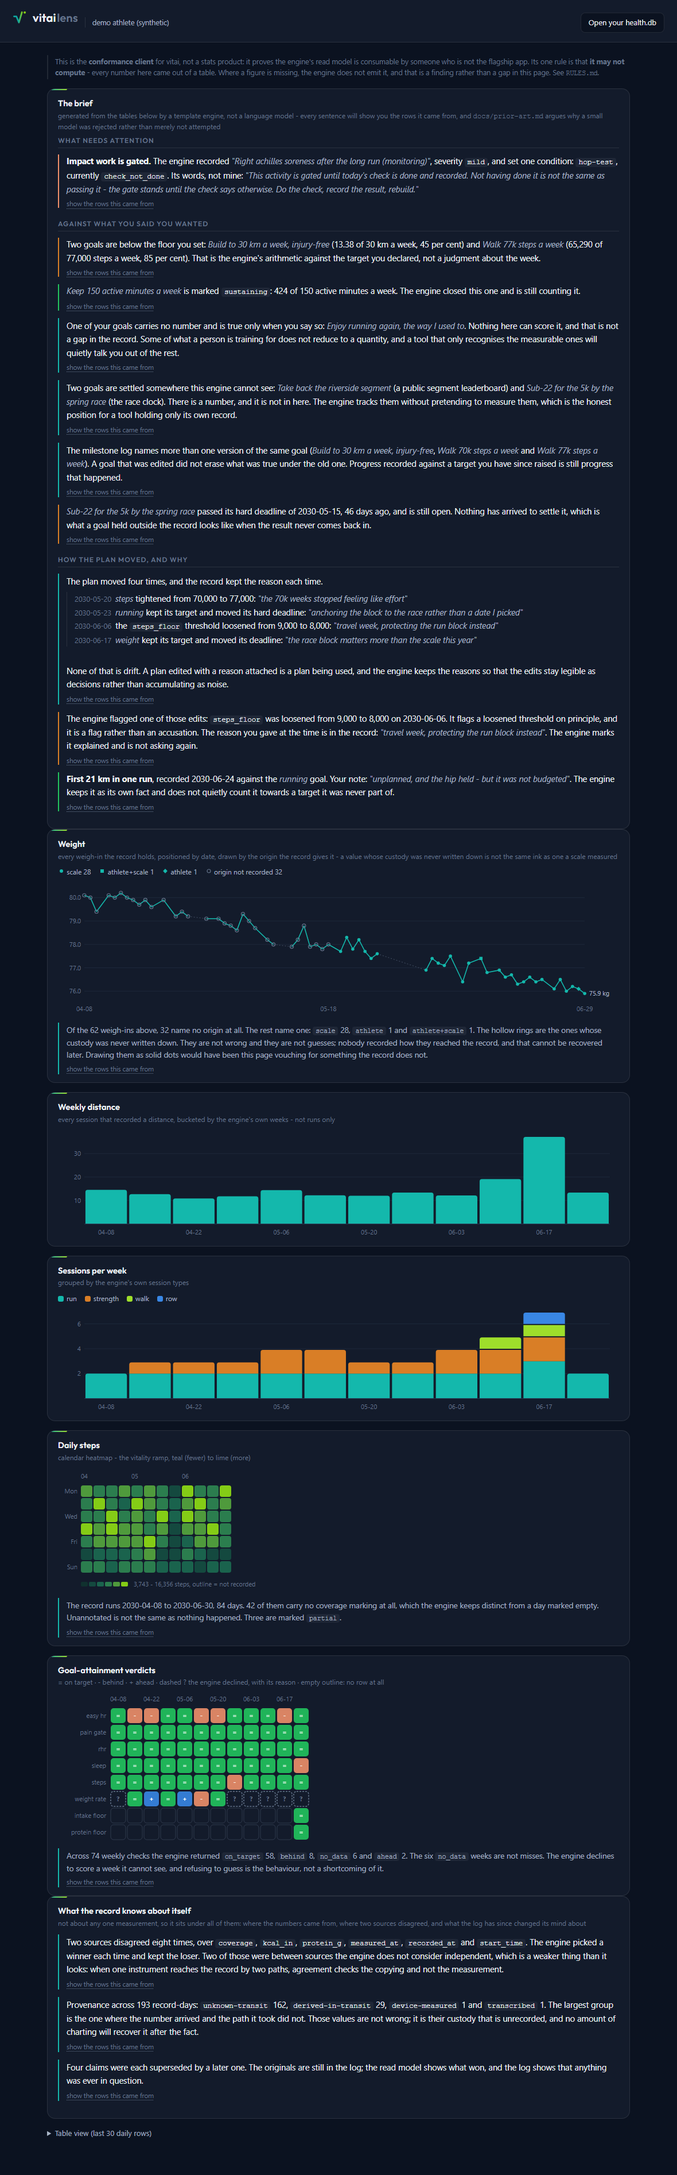
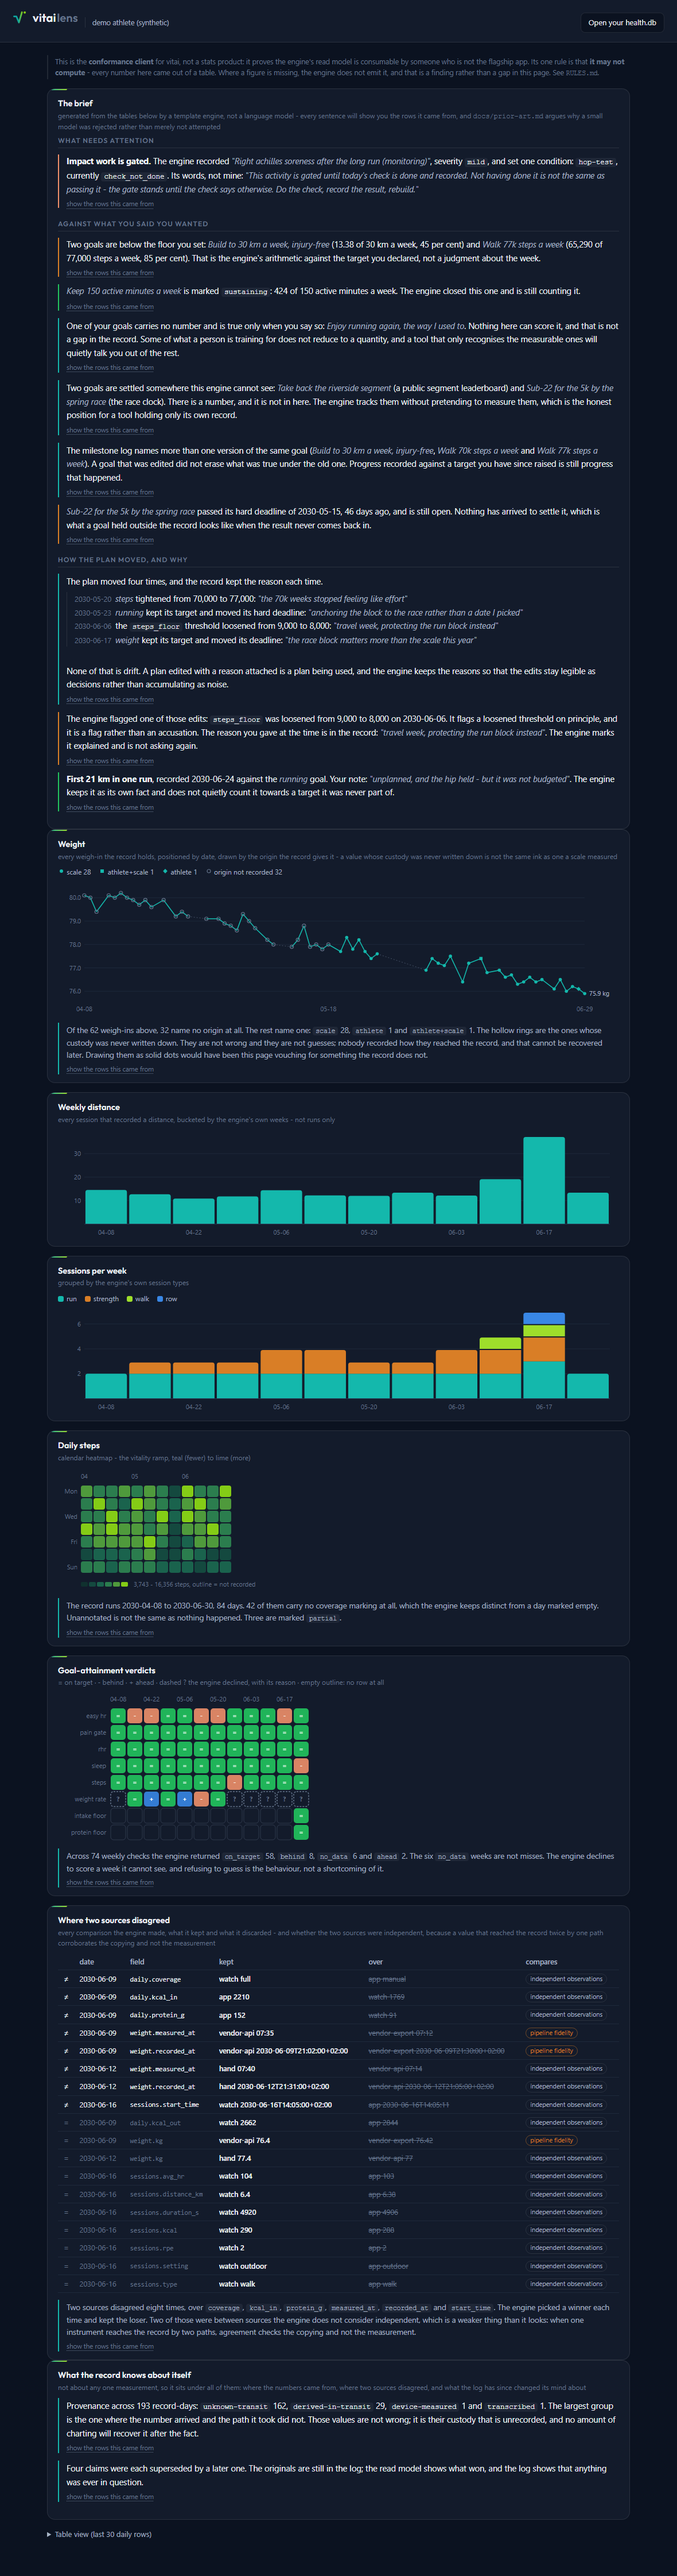
Render where two sources disagreed, and what the engine threw away (#2)
Closes #2. The resolution table held 18 comparisons and the page showed
none of them, so the athlete saw every chosen value as though it were the
only value ever recorded.

All 18 are rendered, not just the 8 conflicts. An engine that compared two
sources and found them consistent has done work, and a table showing only
the fights would misrepresent how often the record simply holds together.
Agreements sit below the disagreements in muted ink.

The discarded value is struck through and still legible. It is the number
the athlete may remember seeing on a device, and a client that hides it
leaves them unable to explain their own record to themselves. Kept and
discarded are set the same weight otherwise, because they are the same KIND
of thing - two sources that spoke - and styling the winner as fact and the
loser as noise would assert more than the engine did.

The `compares` column is the part worth having. The engine already
distinguishes "independent observations" from "pipeline fidelity", so the
lens only has to render the distinction rather than invent it: three of
these comparisons are between a vendor API and a vendor export, which is one
instrument reaching the record by two paths. Agreement there checks the
transcription and says nothing about the measurement. Those carry an amber
badge, and the reason plus that caveat are in the title attribute.

The conflicts narrative moved out of the closing band and under this table,
[…]

Changed region(s): [[0.061, 0.0, 0.9153, 0.9968], [0.6102, 0.3738, 0.8847, 0.405], [0.8542, 0.0, 0.9458, 0.0312]]

diff --git a/index.html b/index.html
@@ -212,6 +212,25 @@
   }
   /* The chronology is set apart from the sentences around it. Run at the same
      indent, its closing line read as one more entry in the list. */
+  /* The resolution table. `kept` and `over` are the same KIND of thing - two
+     sources that spoke - so they are set the same and only the outcome
+     differs, rather than the winner being styled as fact and the loser as
+     noise. */
+  .res { width: 100%; font-size: 12.5px; }
+  .res td, .res th { padding: 5px 9px; white-space: nowrap; }
+  .res .kept { color: var(--ink-1); font-weight: 600; }
+  .res .over { color: var(--ink-mut); text-decoration: line-through;
+               text-decoration-thickness: 1px; }
+  .res tr.agreed td { color: var(--ink-mut); }
+  .res .fld { font-family: ui-monospace, Menlo, Consolas, monospace;
+              font-size: 11.5px; }
+  .badge {
+    display: inline-block; font-size: 10.5px; letter-spacing: .02em;
+    padding: 1px 7px; border-radius: 999px; border: 1px solid var(--border);
+    color: var(--ink-2); cursor: help;
+  }
+  .badge.weak { color: var(--series-2);
+                border-color: color-mix(in srgb, var(--series-2) 45%, transparent); }
   .msg .chron {
     display: block; margin: 7px 0; padding-left: 13px;
     border-left: 1px solid var(--border);
@@ -276,6 +295,13 @@
         no row at all</p>
       <div id="c-verd"></div>
       <div class="chart-note" id="n-c-verd"></div></div>
+    <div class="card"><h2>Where two sources disagreed</h2>
+      <p class="hint">every comparison the engine made, what it kept and what
+        it discarded - and whether the two sources were independent, because a
+        value that reached the record twice by one path corroborates the
+        copying and not the measurement</p>
+      <div id="c-resolution"></div>
+      <div class="chart-note" id="n-c-resolution"></div></div>
   </div>
   <div class="card" id="record-card"><h2>What the record knows about itself</h2>
     <p class="hint">not about any one measurement, so it sits under all of
@@ -911,7 +937,7 @@ function brief(db) {
    * rules knowing anything about the layout. */
   const TARGETS = { brief: "#brief", record: "#record",
                     "c-weight": "#n-c-weight", "c-heat": "#n-c-heat",
-                    "c-verd": "#n-c-verd" };
+                    "c-verd": "#n-c-verd", "c-resolution": "#n-c-resolution" };
 
   for (const [mount, sel] of Object.entries(TARGETS)) {
     const el = $(sel); if (el) el.innerHTML = "";
@@ -980,6 +1006,67 @@ function renderSections(db, mount, sections, withHeadings) {
 /* Shared by the trace control and the table view. Absence renders as a word,
  * per the rule that a blank cell reads as zero to everyone who is not looking
  * for the difference. */
+/* Issue #2: the engine resolved 18 conflicts and the athlete saw the winners
+ * as though they were the only values ever recorded. This renders the
+ * comparison, not just its outcome.
+ *
+ * Agreements are shown too, quietly. An engine that compared two sources and
+ * found them consistent has done work, and a table showing only the fights
+ * would misrepresent how often the record simply holds together. */
+function resolutionTable(db) {
+  const mount = $("#c-resolution");
+  if (!mount) return;
+  const rs = rows(db,
+    "SELECT date, dataset, field, chosen_source, chosen_value, over_source, " +
+    "over_value, witnesses, reason, disagreed, independent, compares, " +
+    "discarded FROM resolution ORDER BY disagreed DESC, date, dataset, field");
+  mount.innerHTML = "";
+  if (!rs.length) {
+    mount.innerHTML = '<p class="absent">the engine recorded no comparisons</p>';
+    return;
+  }
+  const t = document.createElement("table");
+  t.className = "res";
+  const hd = t.createTHead().insertRow();
+  for (const c of ["", "date", "field", "kept", "over", "compares"]) {
+    const th = document.createElement("th");
+    th.textContent = c; th.style.textAlign = c === "" ? "center" : "left";
+    hd.appendChild(th);
+  }
+  const tb = t.createTBody();
+  for (const r of rs) {
+    const tr = tb.insertRow();
+    if (!r.disagreed) tr.className = "agreed";
+    const cell = (html, cls) => {
+      const td = tr.insertCell();
+      td.innerHTML = html; td.style.textAlign = "left";
+      if (cls) td.className = cls;
+      return td;
+    };
+    const mark = cell(r.disagreed ? "&#8800;" : "=");
+    mark.style.textAlign = "center";
+    mark.title = r.disagreed ? "the two sources disagreed"
+                             : "the two sources agreed";
+    cell(r.date);
+    cell(`<span class="fld">${r.dataset}.${r.field}</span>`);
+    cell(`<span class="kept">${r.chosen_source} ${r.chosen_value}</span>`);
+    // The discarded value, struck through but LEGIBLE. It is the number the
+    // athlete may remember seeing on a device, and a client that hides it
+    // leaves them unable to explain their own record to themselves.
+    cell(r.over_source === null
+      ? '<span class="absent">nothing to compare</span>'
+      : `<span class="over">${r.over_source} ${r.over_value}</span>`);
+    const weak = r.independent === 0;
+    const badge = cell(
+      `<span class="badge${weak ? " weak" : ""}">${r.compares || "-"}</span>`);
+    badge.title = (r.reason || "") + (weak
+      ? "\n\nNot independent: one instrument reached the record by two paths, "
+        + "so agreement here checks the transcription and not the measurement."
+      : "");
+  }
+  mount.appendChild(t);
+}
+
 function tableOf(rs) {
   const cols = Object.keys(rs[0]);
   const t = document.createElement("table");
@@ -1019,7 +1106,7 @@ function render(db, label) {
   $("#dropnote").hidden = true;
   brief(db);
   weightChart(db); weeklyCharts(db); heatmap(db);
-  verdictStrip(db); tableView(db);
+  verdictStrip(db); resolutionTable(db); tableView(db);
 }
 (async () => {
   // The wasm comes from vendor/ too. Pointing the script at a local file and

diff --git a/narrator.js b/narrator.js
@@ -334,7 +334,7 @@ const Narrator = (() => {
    * distinction was learned the hard way on this project: two transcriptions
    * of one instrument agreeing tells you the transcription was faithful, and
    * tells you nothing whatever about the measurement.                       */
-  rule("conflicts", "record", 20, (q) => {
+  rule("conflicts", "resolution", 20, (q) => {
     const sql = "SELECT date, dataset, field, chosen_source, chosen_value, " +
                 "over_source, over_value, independent, reason FROM resolution " +
                 "WHERE disagreed = 1 ORDER BY date";
@@ -532,6 +532,7 @@ const Narrator = (() => {
     { id: "weight",     mount: "c-weight", title: null },
     { id: "coverage",   mount: "c-heat",   title: null },
     { id: "attainment", mount: "c-verd",   title: null },
+    { id: "resolution", mount: "c-resolution", title: null },
     { id: "record",     mount: "record",   title: "What the record knows about itself" },
   ];
 

diff --git a/tools/narrate.js b/tools/narrate.js
@@ -78,6 +78,7 @@ const CHART_TITLE = {
   "c-weight": "On the weight chart",
   "c-heat": "On the daily-steps heatmap",
   "c-verd": "On the goal-attainment verdicts",
+  "c-resolution": "On where two sources disagreed",
 };
 
 const mounts = Narrator.generate(query);

diff --git a/README.md b/README.md
@@ -41,6 +41,10 @@ discovered by someone on a train.
   query it came from, so you can disagree with it. See
   [docs/prior-art.md](docs/prior-art.md) for the lineage this borrows from
   and why a small model was rejected rather than merely not attempted.
+- **Where two sources disagreed**: every comparison the engine made, what it
+  kept and what it discarded, and whether the two sources were independent -
+  because a value that reached the record twice by one path corroborates the
+  copying and not the measurement
 - Narrative about a **measurement** sits under the chart that shows it, not
   in the brief: the sentence about unlogged days is under the heatmap where
   the unlogged days are drawn. What is left at the bottom is record-wide
